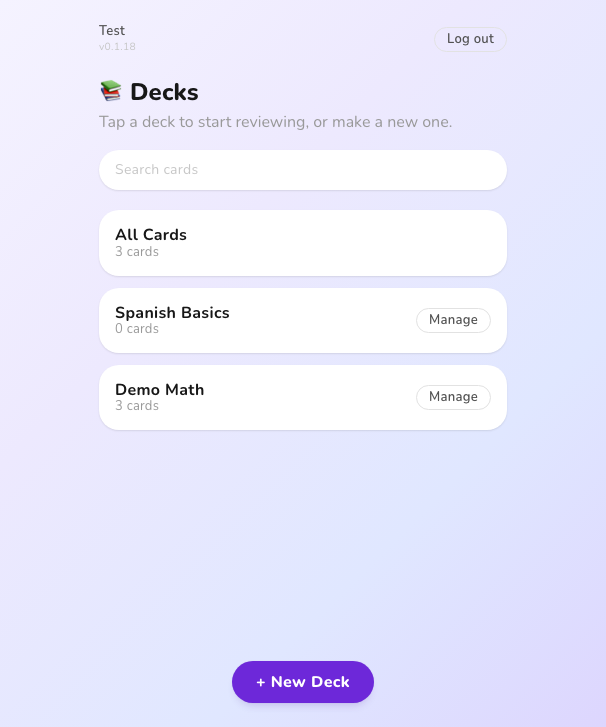
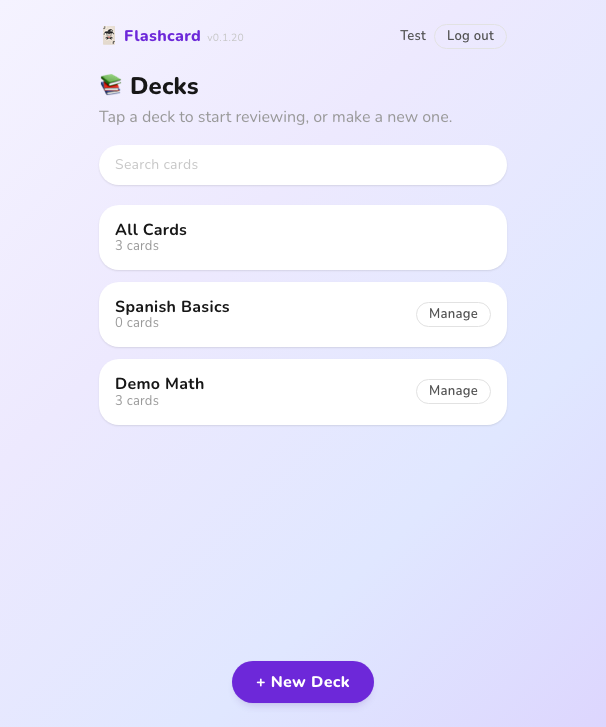
feat: show the app name in the Decks header
- Show "🃏 Flashcard" and the version on the left of the header.
- Move the user's name next to the Log out button. A long name is
  shortened so the button always fits on a phone.

diff --git a/frontend/src/components/AppHeader.vue b/frontend/src/components/AppHeader.vue
@@ -20,20 +20,23 @@ async function logout() {
 
 <template>
 	<header class="mb-6 flex items-center justify-between gap-3">
-		<div class="min-w-0">
-			<div class="truncate text-sm font-semibold text-gray-700" data-test="user-name">{{ userName }}</div>
-			<div class="text-[0.65rem] font-medium tracking-wide text-gray-400" data-test="app-version">
+		<div class="flex shrink-0 items-baseline gap-1.5">
+			<span class="text-lg font-extrabold text-grape-600" data-test="app-name">🃏 Flashcard</span>
+			<span class="text-[0.65rem] font-medium tracking-wide text-gray-400" data-test="app-version">
 				v{{ appVersion }}
-			</div>
+			</span>
 		</div>
-		<button
-			type="button"
-			class="shrink-0 rounded-full border border-gray-300 px-3 py-1 text-sm font-semibold text-gray-700 hover:bg-gray-100 active:scale-95 disabled:opacity-50"
-			:disabled="loggingOut"
-			data-test="logout-button"
-			@click="logout"
-		>
-			Log out
-		</button>
+		<div class="flex min-w-0 items-center gap-2">
+			<span class="truncate text-sm font-semibold text-gray-700" data-test="user-name">{{ userName }}</span>
+			<button
+				type="button"
+				class="shrink-0 rounded-full border border-gray-300 px-3 py-1 text-sm font-semibold text-gray-700 hover:bg-gray-100 active:scale-95 disabled:opacity-50"
+				:disabled="loggingOut"
+				data-test="logout-button"
+				@click="logout"
+			>
+				Log out
+			</button>
+		</div>
 	</header>
 </template>

diff --git a/frontend/tests/Decks.test.js b/frontend/tests/Decks.test.js
@@ -101,9 +101,10 @@ describe("Decks page", () => {
 		expect(createDeck).toHaveBeenCalledWith("Italian");
 	});
 
-	it("shows the logged-in user's name and a Log out button at the top", async () => {
+	it("shows the app name, the logged-in user's name and a Log out button at the top", async () => {
 		window.user_full_name = "Ada Lovelace";
 		const { wrapper } = await mountDecks();
+		expect(wrapper.find('[data-test="app-name"]').text()).toContain("Flashcard");
 		expect(wrapper.find('[data-test="user-name"]').text()).toBe("Ada Lovelace");
 		expect(wrapper.find('[data-test="logout-button"]').text()).toBe("Log out");
 		delete window.user_full_name;

diff --git a/flashcard/__init__.py b/flashcard/__init__.py
@@ -1,1 +1,1 @@
-__version__ = "0.1.19"
+__version__ = "0.1.20"
